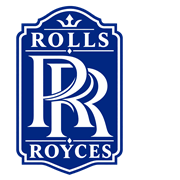
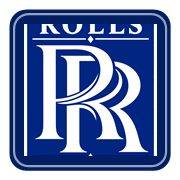
c
c

diff --git a/src/app/layout.tsx b/src/app/layout.tsx
@@ -13,14 +13,15 @@ export const metadata: Metadata = {
   description: "Rolls Royces develops and delivers complex power and propulsion solutions for safety-critical applications in the air, at sea, and on land.",
   icons: {
     icon: [
-      { url: "/icon.png", sizes: "64x64", type: "image/png" },
-      { url: "/rolls-royce-blue-crest.png", sizes: "192x192", type: "image/png" },
+      { url: "/icon.svg", type: "image/svg+xml" },
+      { url: "/favicon-32x32.png", sizes: "32x32", type: "image/png" },
+      { url: "/icon.png", sizes: "512x512", type: "image/png" },
       { url: "/favicon.ico" },
     ],
     apple: [
       { url: "/apple-icon.png", sizes: "180x180", type: "image/png" },
     ],
-    shortcut: "/icon.png",
+    shortcut: "/icon.svg",
   },
 };
 
@@ -31,6 +32,12 @@ export default function RootLayout({
 }) {
   return (
     <html lang="en" className={`${inter.variable} h-full antialiased`}>
+      <head>
+        <link rel="icon" href="/icon.svg" type="image/svg+xml" />
+        <link rel="icon" href="/favicon-32x32.png" sizes="32x32" type="image/png" />
+        <link rel="icon" href="/icon.png" sizes="512x512" type="image/png" />
+        <link rel="apple-touch-icon" href="/apple-icon.png" sizes="180x180" />
+      </head>
       <body className="min-h-full flex flex-col font-sans selection:bg-[#001e62] selection:text-white">
         {children}
       </body>
